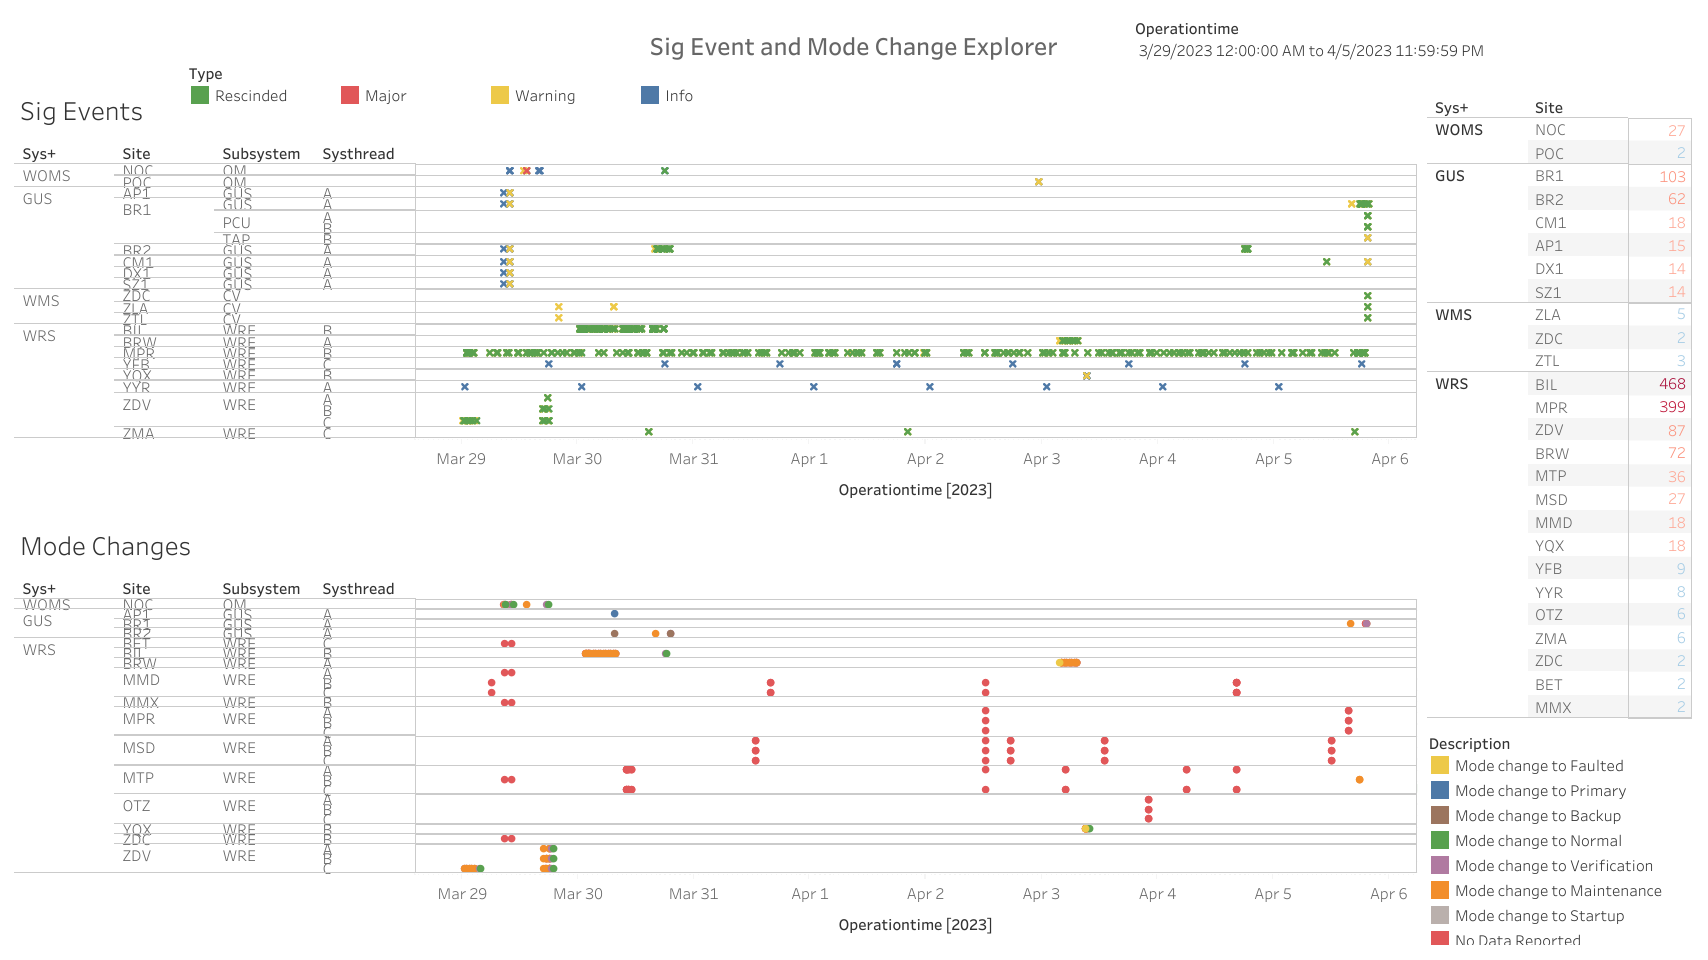
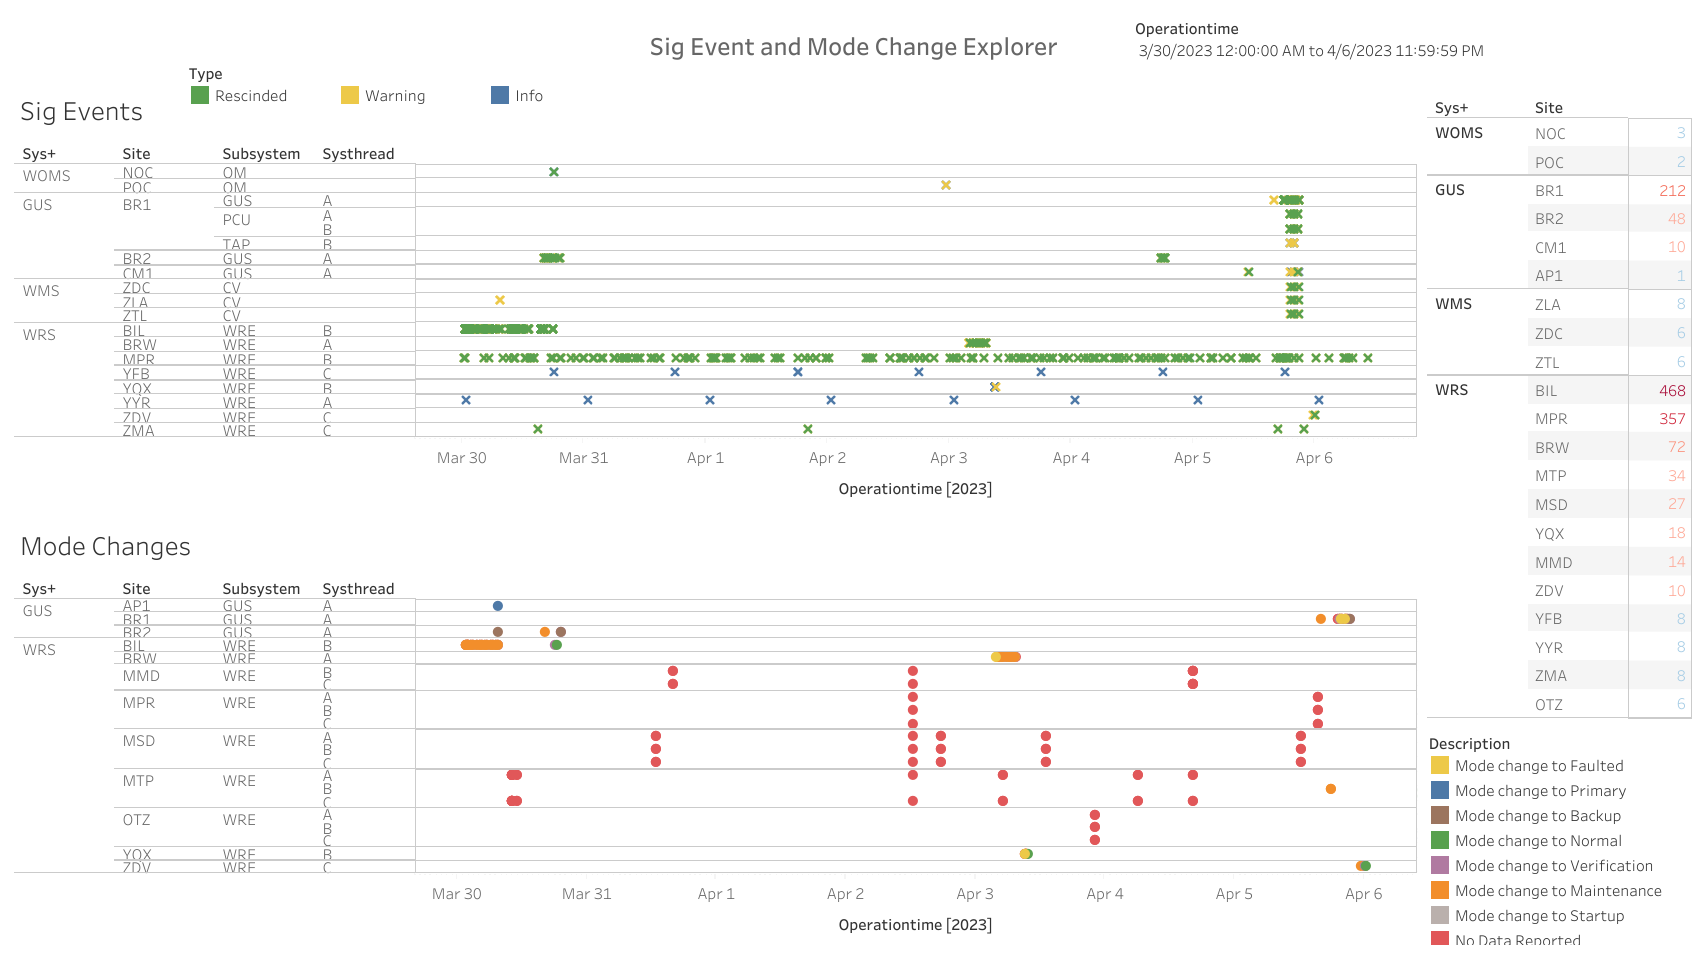
updated sysmon graphic notes

diff --git a/sysmon/index.html b/sysmon/index.html
@@ -5439,8 +5439,8 @@
                                 </div>
                               </div> -->
 
-                                                <div class="list-group-item list-group-item-info">
-                                                      <h4 class="mb-0">3/28-3/29 ZDV WRE-C Investigation</h4>
+                                                <div class="list-group-item list-group-item-success">
+                                                      <h4 class="mb-0">3/28-4/6 ZDV WRE-C Investigation</h4>
                                                       <div class="mb-0 opacity-75">
                                                             <ul>
                                                                   <li>ZDV WRE-C is stuck at 1000 dB L1 AGC Gain. Not
@@ -5463,7 +5463,9 @@
                                                                         <strong>restored to Normal at 3/29
                                                                               18:50</strong>
                                                                   </li>
-                                                            </ul>
+                                                                  <li>4/5 23:26 - ZDV WRE-C to Maintenance to replace Receiver per SLES recommendation; new receiver AGC is running within tolerance; <strong>restored to Normal at 4/6 00:24</strong>; ref <a href="https://technetrmlsb.faa.gov/LIR/Details/458080432">LIR 458080432</a></li>
+                                                                  </ul>
+                                                                  
                                                       </div>
                                                 </div>
 
@@ -5607,7 +5609,8 @@
                                                                   <li>4/5 15:59 - BR1 GUS to Maintenance for intrusive
                                                                         Antenna / KPA Maintenance; ref <a
                                                                               href="https://technetrmlsb.faa.gov/LIR/Details/452806432">LIR
-                                                                              452806432</a></li>
+                                                                              452806432</a>; <strong>restored to Backup at 4/5 21:21</strong>
+                                                                        </li>
                                                             </ul>
 
                                                       </div>
